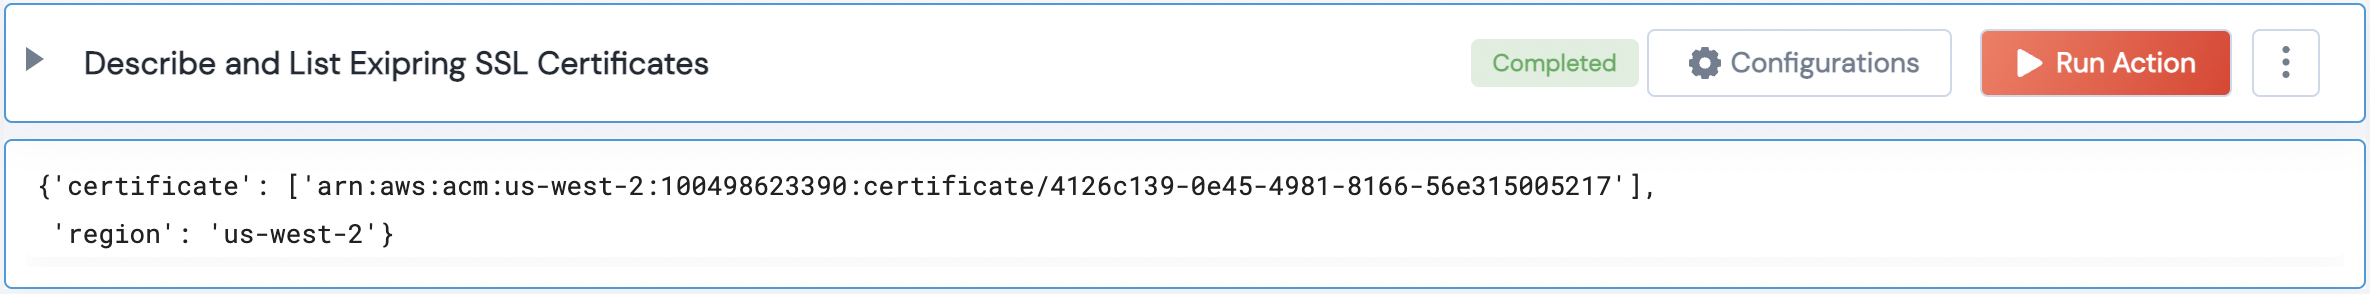
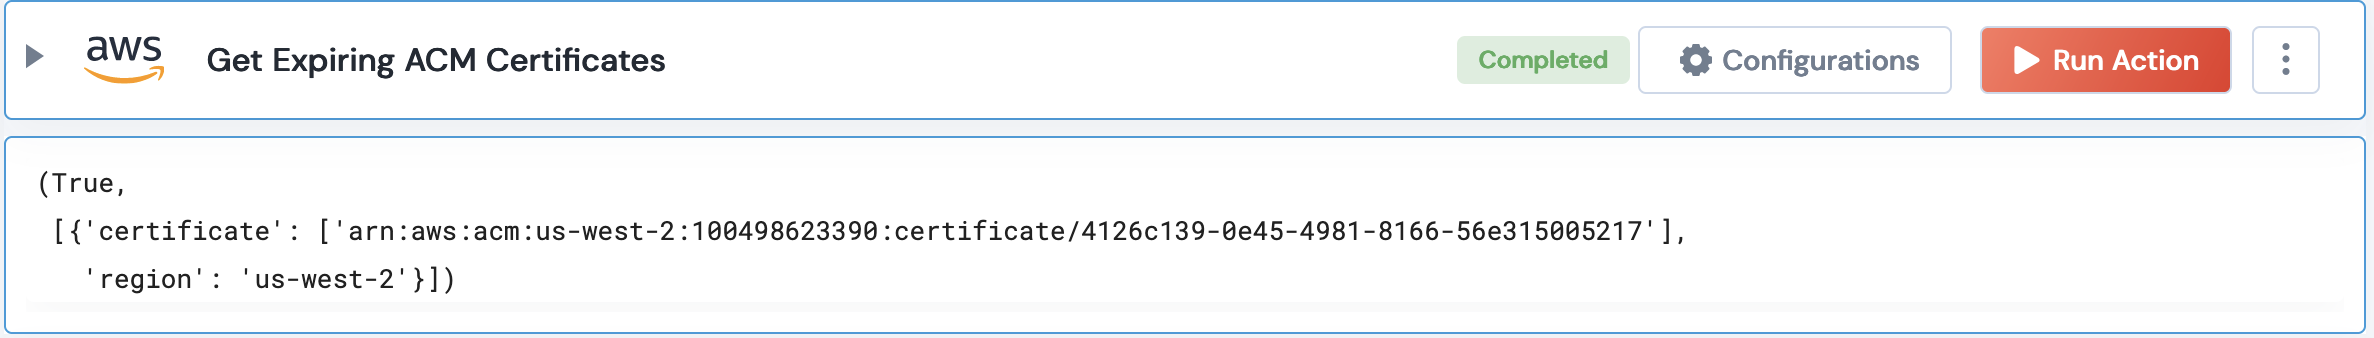
EN-3790 Modify legos to return list and check all regions (#167)

diff --git a/AWS/legos/aws_list_expiring_acm_certificates/aws_list_expiring_acm_certificates.py b/AWS/legos/aws_list_expiring_acm_certificates/aws_list_expiring_acm_certificates.py
@@ -3,7 +3,8 @@
 ##
 import dateutil
 from pydantic import BaseModel, Field
-from typing import Dict,List
+from typing import Dict,List, Optional,Tuple
+from unskript.legos.aws.aws_list_all_regions.aws_list_all_regions import aws_list_all_regions
 import pprint
 import datetime
 
@@ -12,7 +13,8 @@ class InputSchema(BaseModel):
         title="Threshold Days",
         description="Threshold number(in days) to check for expiry. Eg: 30 -lists all certificates which are expiring within 30 days"
     )
-    region: str = Field(
+    region: Optional[str] = Field(
+        default="",
         title='Region',
         description='Name of the AWS Region'
     )
@@ -22,7 +24,7 @@ def aws_list_expiring_acm_certificates_printer(output):
         return
     pprint.pprint(output)
 
-def aws_list_expiring_acm_certificates(handle, threshold_days: int, region: str='')-> Dict:
+def aws_list_expiring_acm_certificates(handle, threshold_days: int, region: str=None)-> Tuple:
     """aws_list_expiring_acm_certificates returns all the ACM issued certificates which are about to expire given a threshold number of days
 
         :type handle: object
@@ -36,30 +38,40 @@ def aws_list_expiring_acm_certificates(handle, threshold_days: int, region: str=
 
         :rtype: Result Dictionary of result
     """
-    iamClient = handle.client('acm', region_name=region)
     arn_list=[]
     domain_list = []
     expiring_certificates_list= []
     expiring_certificates_dict={}
     result_list=[]
-    try:
-        certificates_list = iamClient.list_certificates(CertificateStatuses=['ISSUED'])
-        for each_arn in certificates_list['CertificateSummaryList']:
-            arn_list.append(each_arn['CertificateArn'])
-            domain_list.append(each_arn['DomainName'])
-        for cert_arn in arn_list:
-            details = iamClient.describe_certificate(CertificateArn=cert_arn)
-            for key,value in details['Certificate'].items():
-                if key == "NotAfter":
-                    expiry_date = value
-                    right_now = datetime.datetime.now(dateutil.tz.tzlocal())
-                    diff = expiry_date-right_now
-                    days_remaining = diff.days
-                    if days_remaining < threshold_days and days_remaining > 0:
-                        expiring_certificates_list.append(cert_arn)
-                    expiring_certificates_dict["region"]= region
-                    expiring_certificates_dict["certificate"]= expiring_certificates_list
-        result_list.append(expiring_certificates_dict)
-    except Exception as e:
-        pass
-    return expiring_certificates_dict
+    all_regions = [region]
+    if region is None or len(region)==0:
+        all_regions = aws_list_all_regions(handle=handle)
+    for r in all_regions:
+        iamClient = handle.client('acm', region_name=r)
+        try:
+            expiring_certificates_dict={}
+            certificates_list = iamClient.list_certificates(CertificateStatuses=['ISSUED'])
+            for each_arn in certificates_list['CertificateSummaryList']:
+                arn_list.append(each_arn['CertificateArn'])
+                domain_list.append(each_arn['DomainName'])
+            for cert_arn in arn_list:
+                details = iamClient.describe_certificate(CertificateArn=cert_arn)
+                for key,value in details['Certificate'].items():
+                    if key == "NotAfter":
+                        expiry_date = value
+                        right_now = datetime.datetime.now(dateutil.tz.tzlocal())
+                        diff = expiry_date-right_now
+                        days_remaining = diff.days
+                        if days_remaining < threshold_days and days_remaining > 0:
+                            expiring_certificates_list.append(cert_arn)
+            expiring_certificates_dict["region"]= r
+            expiring_certificates_dict["certificate"]= expiring_certificates_list
+            if len(expiring_certificates_list)!=0:
+                result_list.append(expiring_certificates_dict)
+        except Exception as e:
+            pass
+    execution_flag = False
+    if len(result_list) > 0:
+        execution_flag = True
+    output = (execution_flag, result_list)
+    return output

diff --git a/AWS/legos/aws_list_expiring_access_keys/aws_list_expiring_access_keys.py b/AWS/legos/aws_list_expiring_access_keys/aws_list_expiring_access_keys.py
@@ -3,15 +3,12 @@
 ##
 import dateutil
 from pydantic import BaseModel, Field
-from typing import Dict,List
+from unskript.legos.aws.aws_list_all_iam_users.aws_list_all_iam_users import aws_list_all_iam_users
+from typing import Dict,List,Tuple
 import pprint
 import datetime
 
 class InputSchema(BaseModel):
-    aws_username: str = Field(
-        title="Username",
-        description="Username of the IAM User"
-    )
     threshold_days: int = Field(
         title="Threshold Days",
         description="Threshold number(in days) to check for expiry. Eg: 30"
@@ -22,7 +19,7 @@ def aws_list_expiring_access_keys_printer(output):
         return
     pprint.pprint(output)
 
-def aws_list_expiring_access_keys(handle, threshold_days: int, aws_username: str='')-> Dict:
+def aws_list_expiring_access_keys(handle, threshold_days: int)-> Tuple:
     """aws_list_expiring_access_keys returns all the ACM issued certificates which are about to expire given a threshold number of days
 
         :type handle: object
@@ -31,24 +28,34 @@ def aws_list_expiring_access_keys(handle, threshold_days: int, aws_username: str
         :type threshold_days: int
         :param threshold_days: Threshold number of days to check for expiry. Eg: 30 -lists all access Keys which are expiring within 30 days
 
-        :type aws_username: str
-        :param aws_username: Username of the IAM User
-
         :rtype: Result Dictionary of result
     """
+    final_result=[]
+    all_users=[]
     try:
-        iamClient = handle.client('iam')
-        response = iamClient.list_access_keys(UserName=aws_username)
-        result = {}
-        for x in response["AccessKeyMetadata"]:
-            if len(response["AccessKeyMetadata"])!= 0:
-                create_date = x["CreateDate"]
-                right_now = datetime.datetime.now(dateutil.tz.tzlocal())
-                diff = right_now-create_date
-                days_remaining = diff.days
-                if days_remaining > threshold_days:
-                    result["username"] = x["UserName"]
-                    result["access_key_id"] = x["AccessKeyId"]
-    except Exception as e:
-        result["error"] = e
-    return result
+        all_users = aws_list_all_iam_users(handle=handle)
+    except Exception as error:
+        pass
+    for each_user in all_users:
+        try:
+            iamClient = handle.client('iam')
+            result = {}
+            response = iamClient.list_access_keys(UserName=each_user)
+            for x in response["AccessKeyMetadata"]:
+                if len(response["AccessKeyMetadata"])!= 0:
+                    create_date = x["CreateDate"]
+                    right_now = datetime.datetime.now(dateutil.tz.tzlocal())
+                    diff = right_now-create_date
+                    days_remaining = diff.days
+                    if days_remaining > threshold_days:
+                        result["username"] = x["UserName"]
+                        result["access_key_id"] = x["AccessKeyId"]
+            if len(result)!=0:
+                final_result.append(result)
+        except Exception as e:
+            pass
+    execution_flag = False
+    if len(final_result) > 0:
+        execution_flag = True
+    output = (execution_flag, final_result)
+    return output

diff --git a/AWS/legos/aws_list_expiring_access_keys/README.md b/AWS/legos/aws_list_expiring_access_keys/README.md
@@ -7,14 +7,13 @@ This Lego lists all the expiring IAM Access Keys for an AWS User.
 
 ## Lego Details
 
-    aws_list_expiring_access_keys(handle, threshold_days: int, aws_username: str)
+    aws_list_expiring_access_keys(handle, threshold_days: int)
 
         handle: Object of type unSkript AWS Connector.
         threshold_days: Integer, Threshold number of days to check for expiry. Eg: 30 -lists all expiring access keys within 30 days.
-        aws_username: IAM username of AWS user. Eg: peralta
 
 ## Lego Input
-This Lego take three inputs handle, threshold_days and aws_username.
+This Lego take two inputs handle, threshold_days and aws_username.
 
 ## Lego Output
 <img src="./1.png">

diff --git a/AWS/legos/aws_list_expiring_acm_certificates/README.md b/AWS/legos/aws_list_expiring_acm_certificates/README.md
@@ -11,7 +11,7 @@ This Lego lists all the expiring ACM issued SSL certificates
 
         handle: Object of type unSkript AWS Connector.
         threshold_days: Integer, Threshold number of days to check for expiry. Eg: 30 -lists all certificates which are expiring within 30 days.
-        region: Region where the Certificate is present.
+        region: Optional, Region where the Certificate is present.Eg:'us-west-2'
 
 ## Lego Input
 This Lego take three inputs handle, threshold_days and region.
